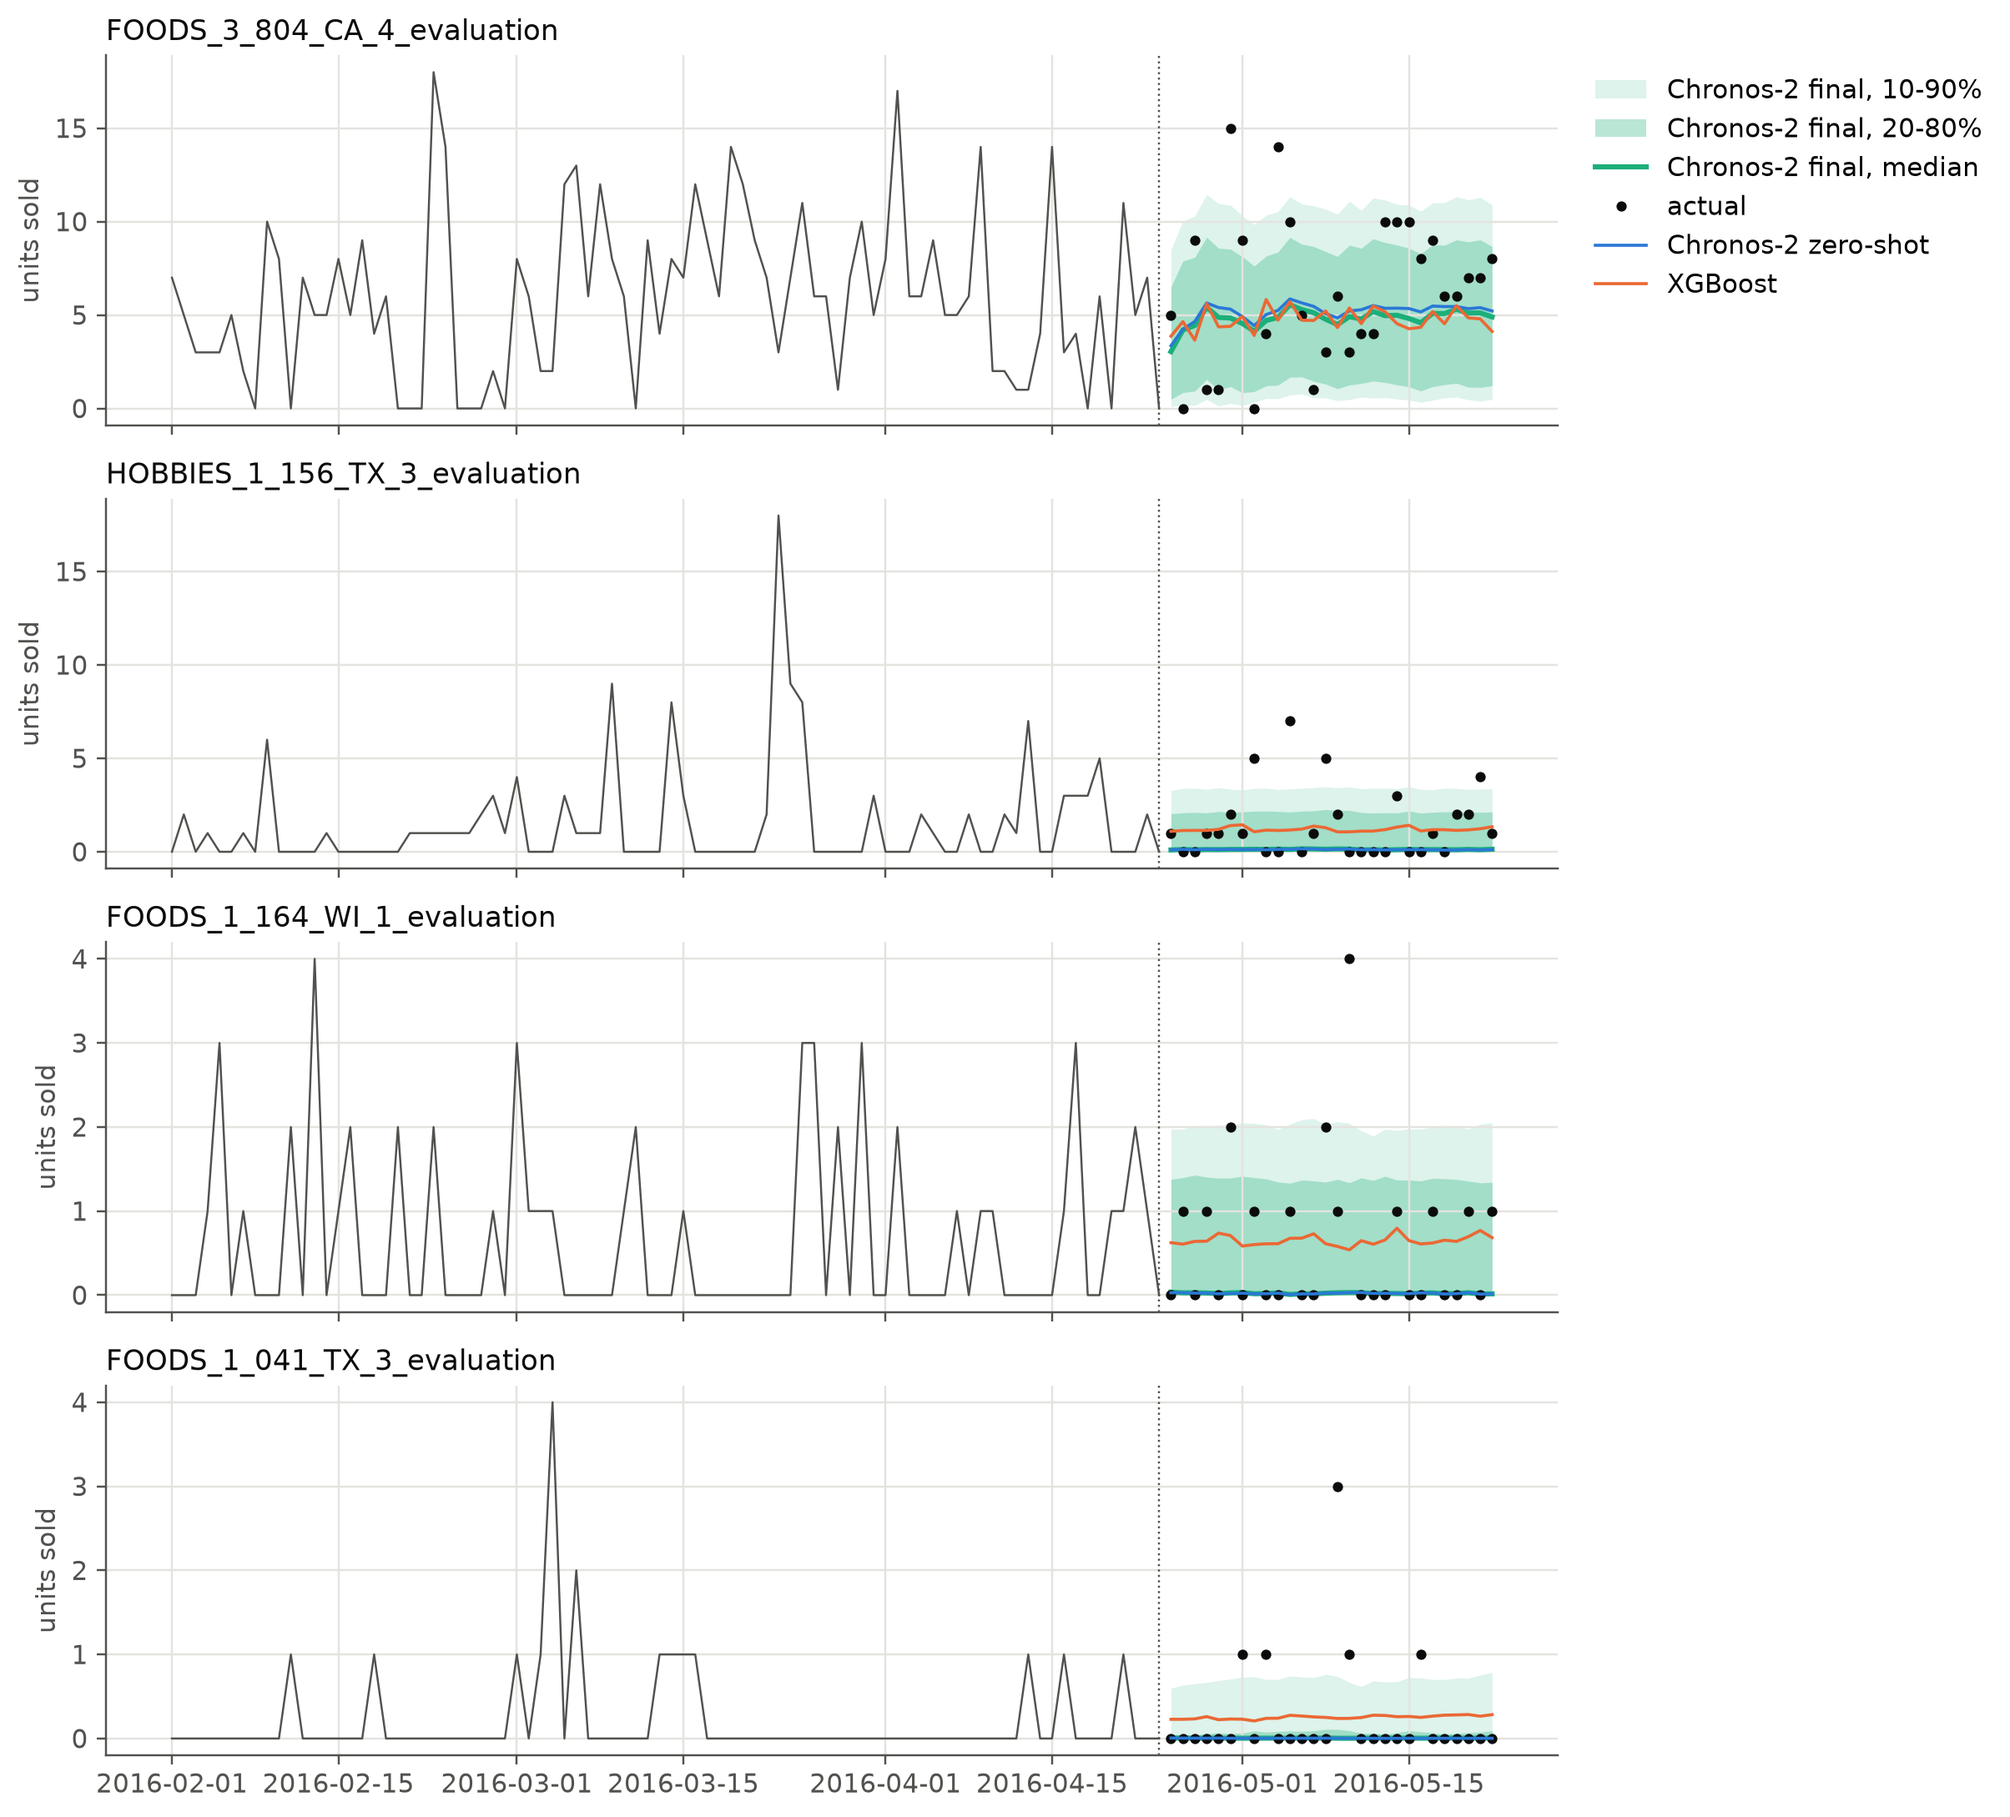
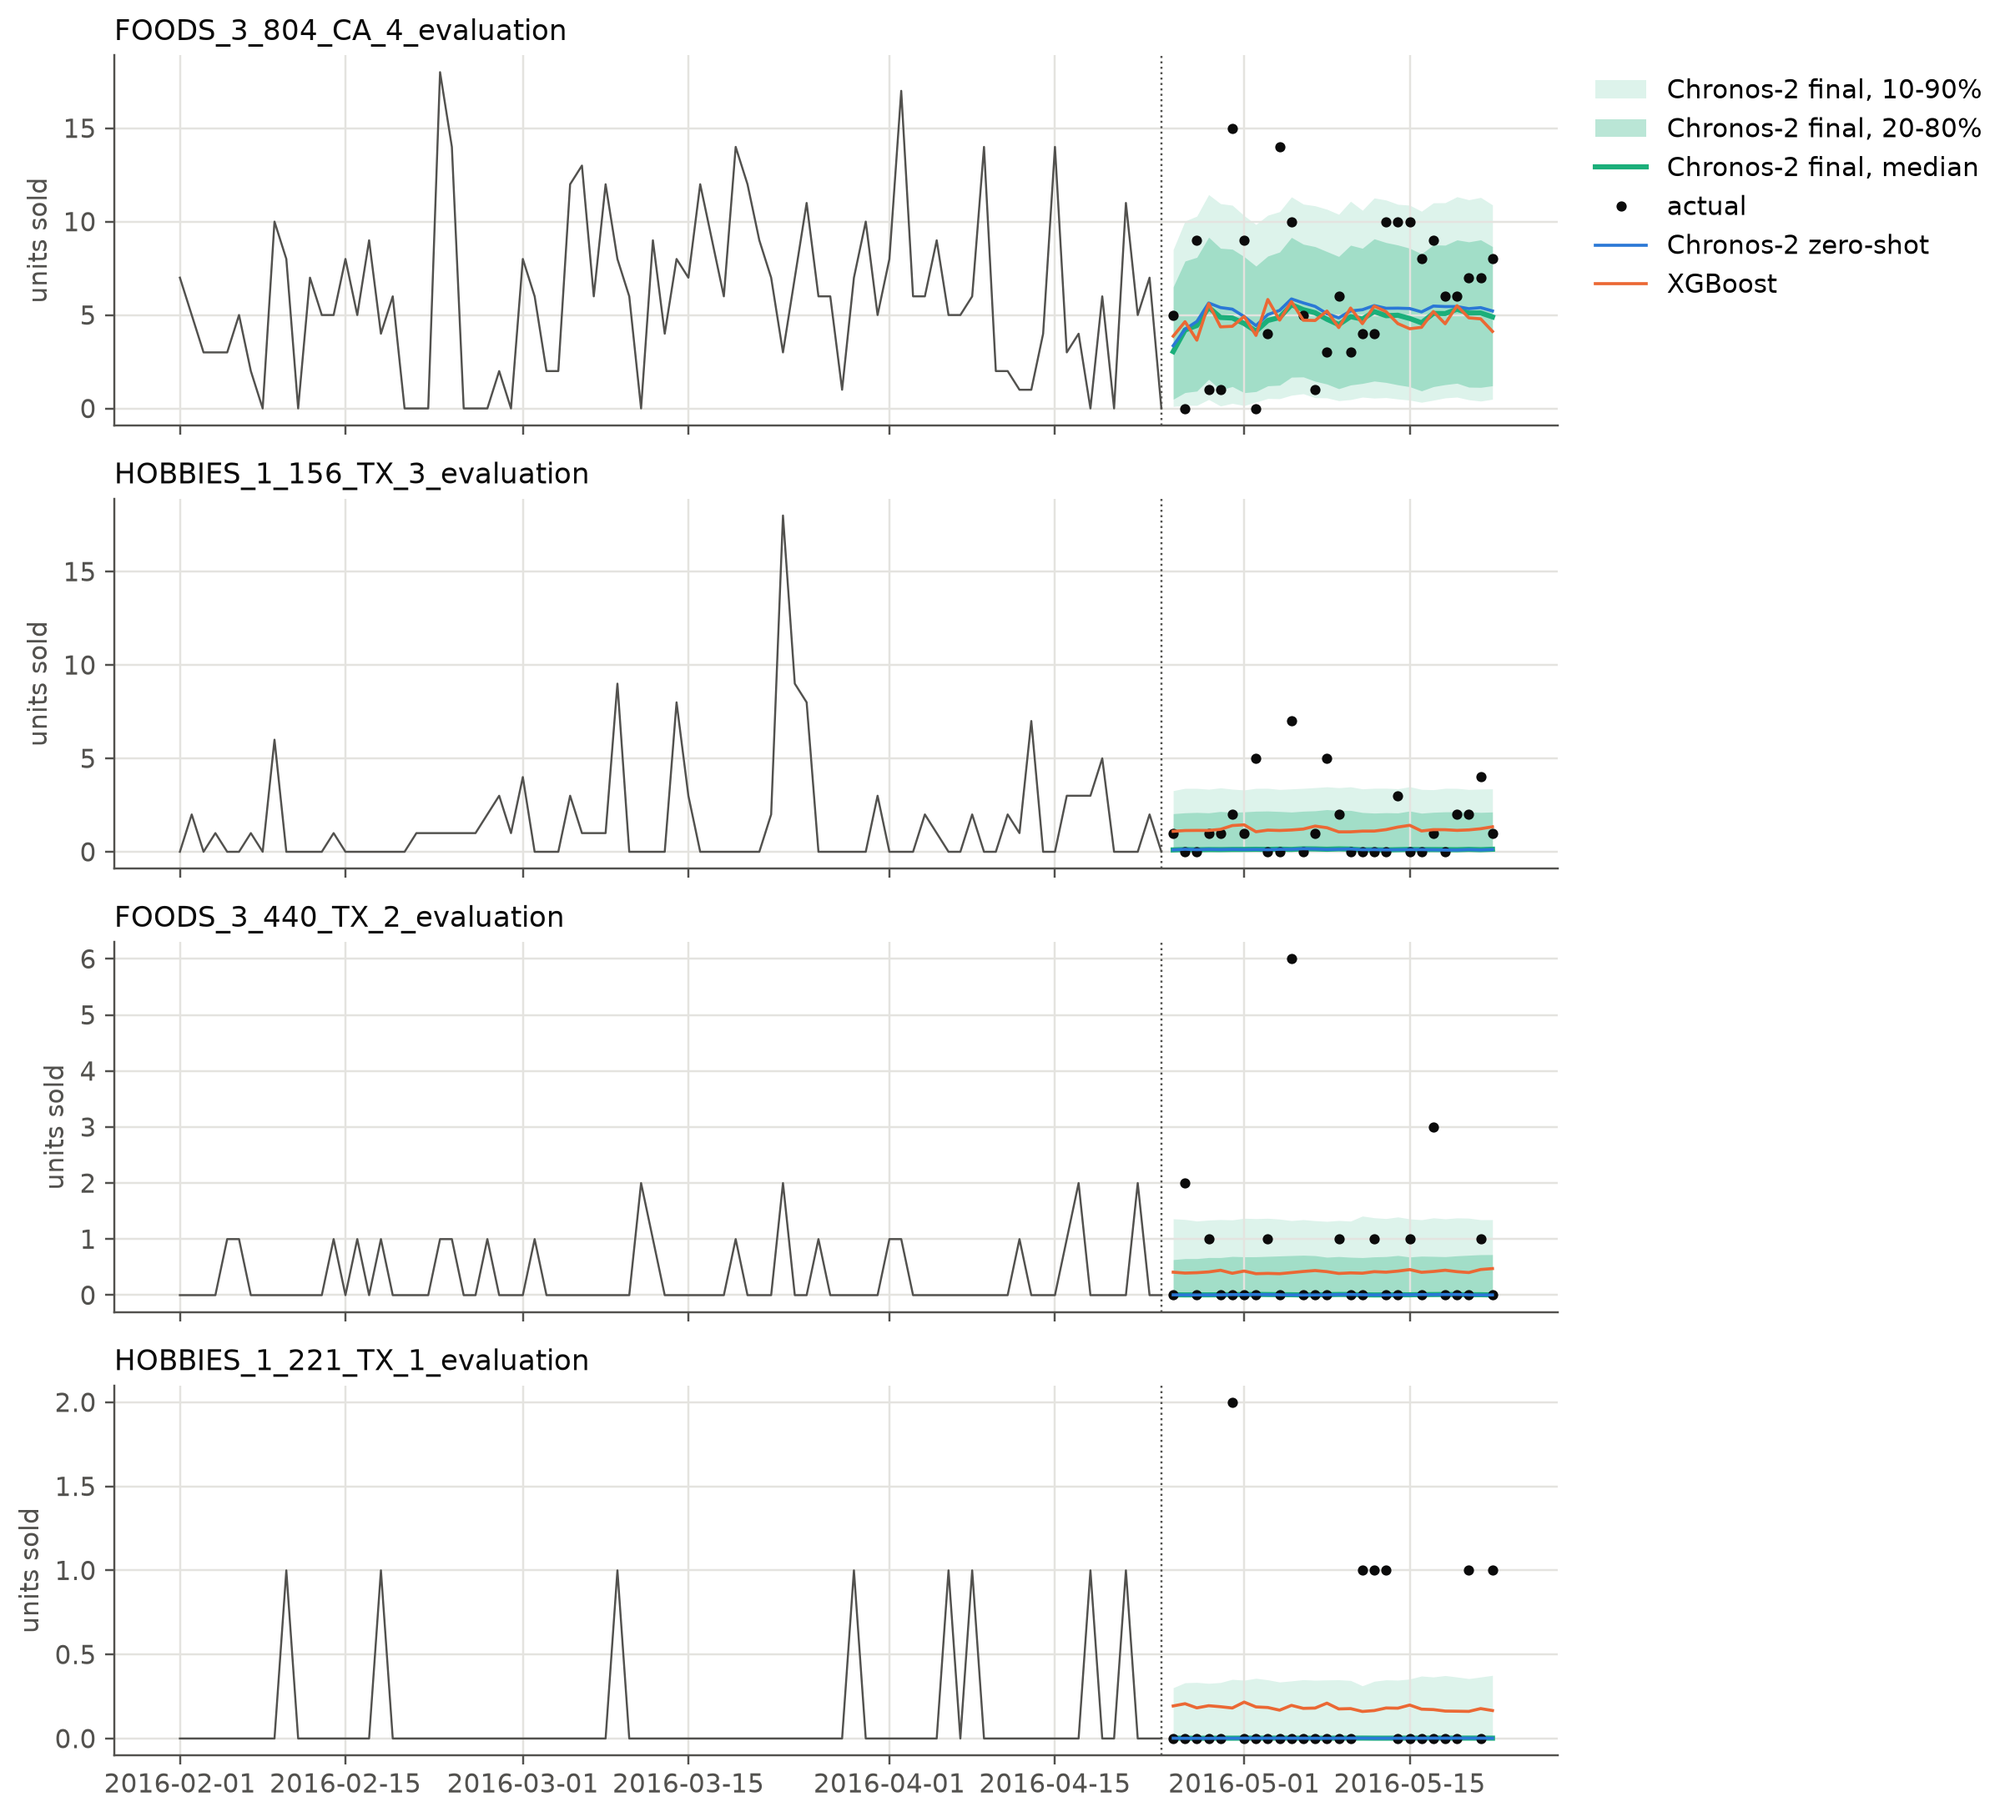
Built site for gh-pages

diff --git a/posts/03-ceiling/index.html b/posts/03-ceiling/index.html
@@ -7,7 +7,7 @@
 <meta name="viewport" content="width=device-width, initial-scale=1.0, user-scalable=yes">
 
 <meta name="dcterms.date" content="2026-11-07">
-<meta name="description" content="A comprehensive tracking of the error’s origin, plus a qualitative check of the underlying structure of the data.">
+<meta name="description" content="A comprehensive tracking of the error’s origin, to uncover potentially missed levers">
 
 <title>Have we reached a ceiling? – Investigating Chronos-2</title>
 <style>
@@ -186,7 +186,7 @@ window.Quarto = {
       <div class="quarto-title-block"><div><h1 class="title">Have we reached a ceiling?</h1><button type="button" class="btn code-tools-button dropdown-toggle" id="quarto-code-tools-menu" data-bs-toggle="dropdown" aria-expanded="false"><i class="bi"></i> Code</button><ul class="dropdown-menu dropdown-menu-end" aria-labelelledby="quarto-code-tools-menu"><li><a id="quarto-show-all-code" class="dropdown-item" href="javascript:void(0)" role="button">Show All Code</a></li><li><a id="quarto-hide-all-code" class="dropdown-item" href="javascript:void(0)" role="button">Hide All Code</a></li><li><hr class="dropdown-divider"></li><li><a id="quarto-view-source" class="dropdown-item" href="javascript:void(0)" role="button">View Source</a></li></ul></div></div>
                   <div>
         <div class="description">
-          A comprehensive tracking of the error’s origin, plus a qualitative check of the underlying structure of the data.
+          A comprehensive tracking of the error’s origin, to uncover potentially missed levers
         </div>
       </div>
                           <div class="quarto-categories">
@@ -1274,7 +1274,7 @@ Figure&nbsp;7: Left: what the weekly shape adds to the stable difficulty, agains
   </script><div class="modal fade" id="quarto-embedded-source-code-modal" tabindex="-1" aria-labelledby="quarto-embedded-source-code-modal-label" aria-hidden="true"><div class="modal-dialog modal-dialog-scrollable"><div class="modal-content"><div class="modal-header"><h5 class="modal-title" id="quarto-embedded-source-code-modal-label">Source Code</h5><button class="btn-close" data-bs-dismiss="modal"></button></div><div class="modal-body"><div class="">
 <div class="code-copy-outer-scaffold"><div class="sourceCode" id="cb10" data-shortcodes="false"><pre class="sourceCode markdown code-with-copy"><code class="sourceCode markdown"><span id="cb10-1"><a href="#cb10-1" aria-hidden="true" tabindex="-1"></a><span class="co">---</span></span>
 <span id="cb10-2"><a href="#cb10-2" aria-hidden="true" tabindex="-1"></a><span class="an">title:</span><span class="co"> "Have we reached a ceiling?"</span></span>
-<span id="cb10-3"><a href="#cb10-3" aria-hidden="true" tabindex="-1"></a><span class="an">description:</span><span class="co"> "A comprehensive tracking of the error's origin, plus a qualitative check of the underlying structure of the data."</span></span>
+<span id="cb10-3"><a href="#cb10-3" aria-hidden="true" tabindex="-1"></a><span class="an">description:</span><span class="co"> "A comprehensive tracking of the error's origin, to uncover potentially missed levers"</span></span>
 <span id="cb10-4"><a href="#cb10-4" aria-hidden="true" tabindex="-1"></a><span class="an">order:</span><span class="co"> 3</span></span>
 <span id="cb10-5"><a href="#cb10-5" aria-hidden="true" tabindex="-1"></a><span class="an">date:</span><span class="co"> "2026-11-07"</span></span>
 <span id="cb10-6"><a href="#cb10-6" aria-hidden="true" tabindex="-1"></a><span class="an">categories:</span><span class="co"> [M5, diagnostics, clustering, statistics]</span></span>

diff --git a/index.html b/index.html
@@ -259,13 +259,13 @@ Nov 1, 2026
 </a>
 </div>
 </div>
-<div class="quarto-post image-right" data-index="2" data-categories="TTUlMkNkaWFnbm9zdGljcyUyQ2NsdXN0ZXJpbmclMkNzdGF0aXN0aWNz" data-listing-date-sort="1794006000000" data-listing-file-modified-sort="1795461801562" data-listing-date-modified-sort="NaN" data-listing-reading-time-sort="23" data-listing-word-count-sort="4441">
+<div class="quarto-post image-right" data-index="2" data-categories="TTUlMkNkaWFnbm9zdGljcyUyQ2NsdXN0ZXJpbmclMkNzdGF0aXN0aWNz" data-listing-date-sort="1794006000000" data-listing-file-modified-sort="1795510215584" data-listing-date-modified-sort="NaN" data-listing-reading-time-sort="23" data-listing-word-count-sort="4441">
 <div class="body">
 <h3 class="no-anchor listing-title">
 <a href="./posts/03-ceiling/index.html" class="no-external">Have we reached a ceiling?</a>
 </h3>
 <div class="delink listing-description"><a href="./posts/03-ceiling/index.html" class="no-external">
-<p>A comprehensive tracking of the error’s origin, plus a qualitative check of the underlying structure of the data.</p>
+<p>A comprehensive tracking of the error’s origin, to uncover potentially missed levers</p>
 </a></div>
 </div>
 <div class="metadata">
@@ -290,8 +290,6 @@ Nov 7, 2026
 <li><strong>Any two numbers whose difference is interpreted share their hardware.</strong> CPU and GPU disagree in the third decimal of WQL, which is enough to invert a close ranking, so the Chronos-2 corpus is entirely GPU and every artifact carries the device it was produced on.</li>
 </ul>
 <p>Code and artifacts: <a href="https://github.com/amelien-quenet/m5-chronos2"><code>m5-chronos2</code></a>.</p>
-<!-- TODO (yours, not mine to invent): a short paragraph on why you did this —
-     first blog, what you wanted to learn, who you are writing for. -->
 
 
 
